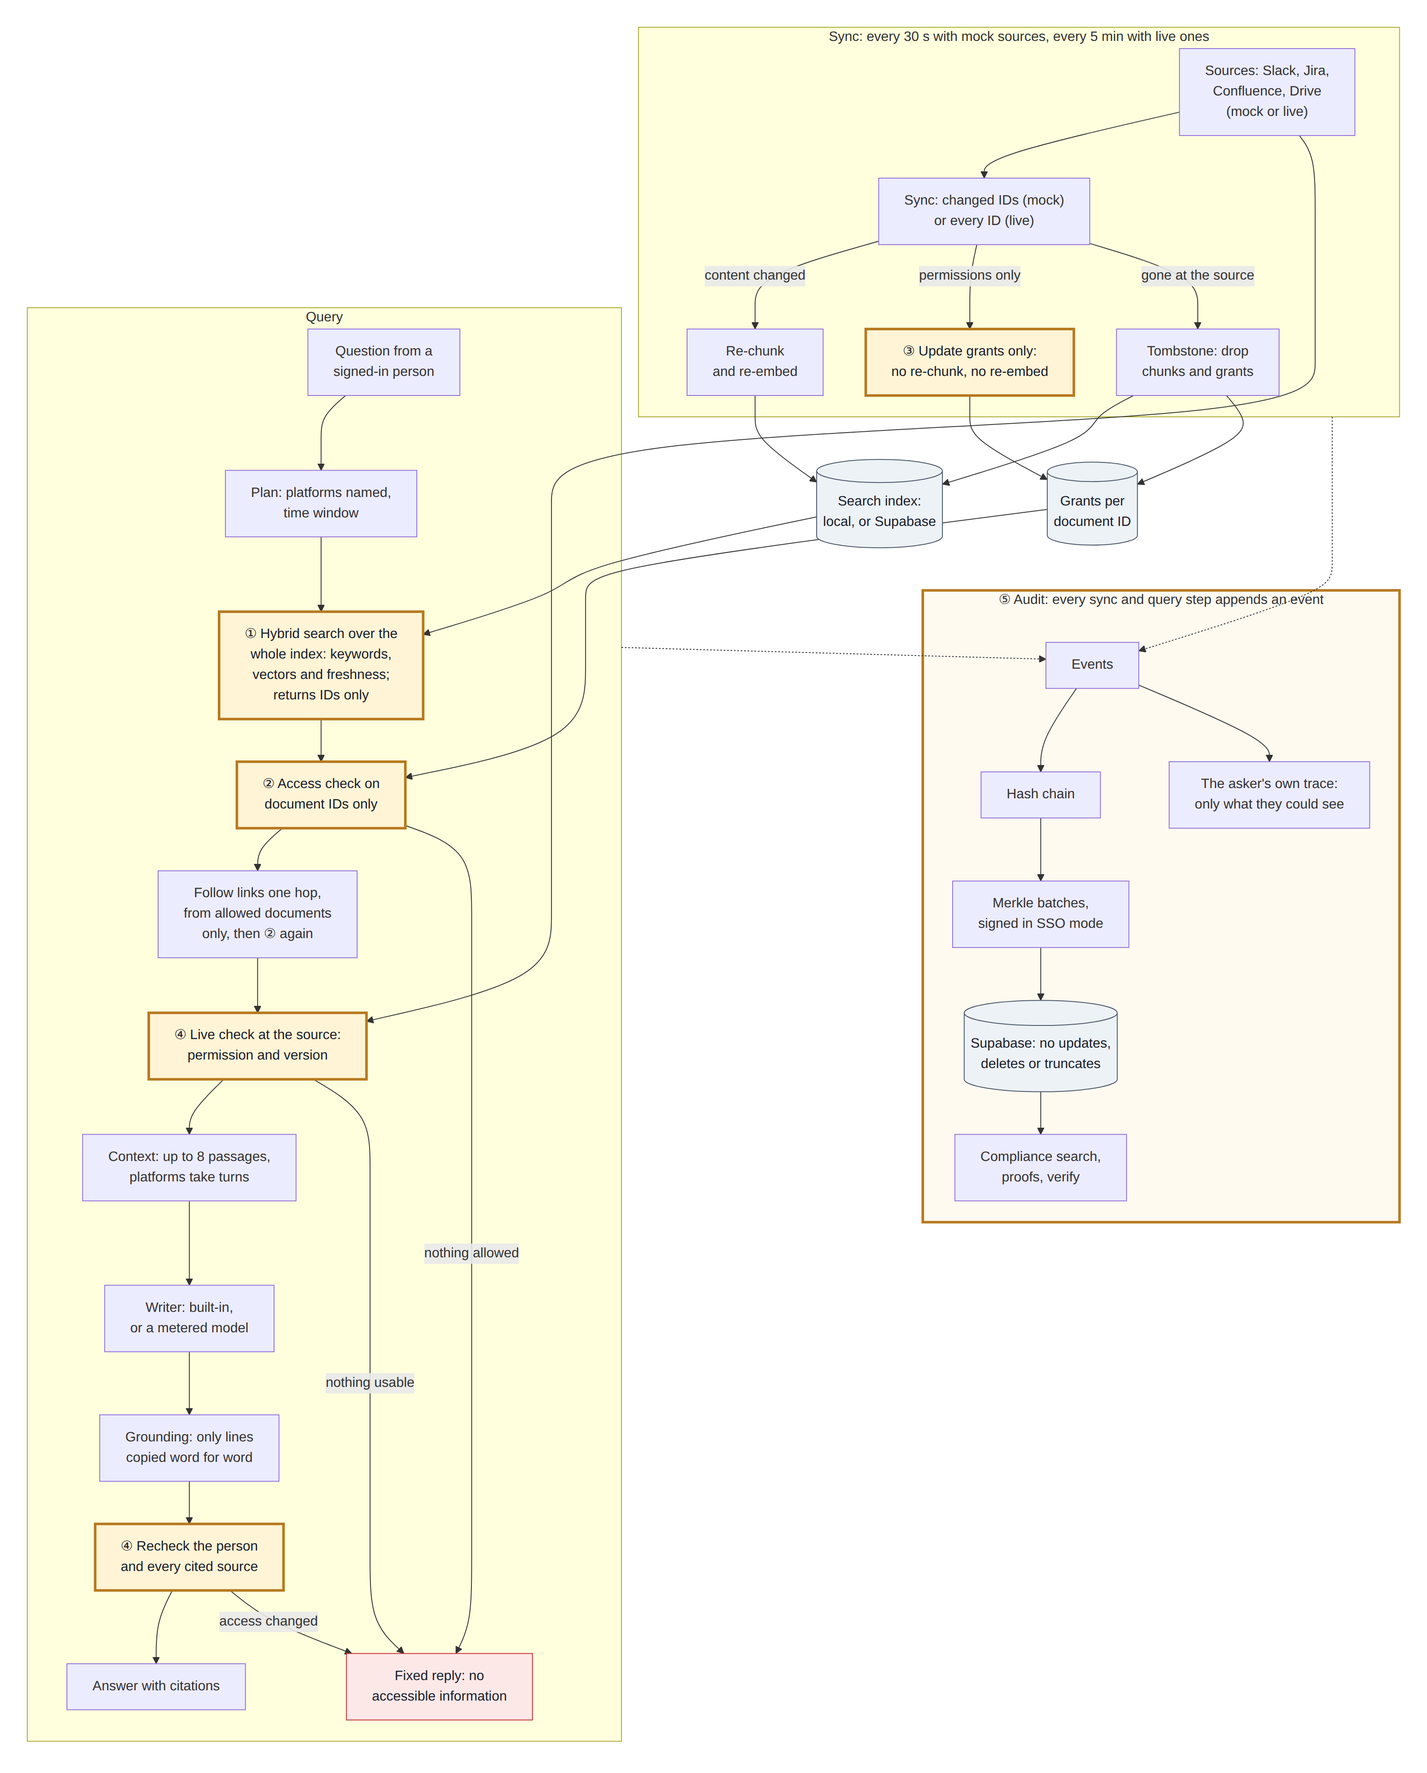
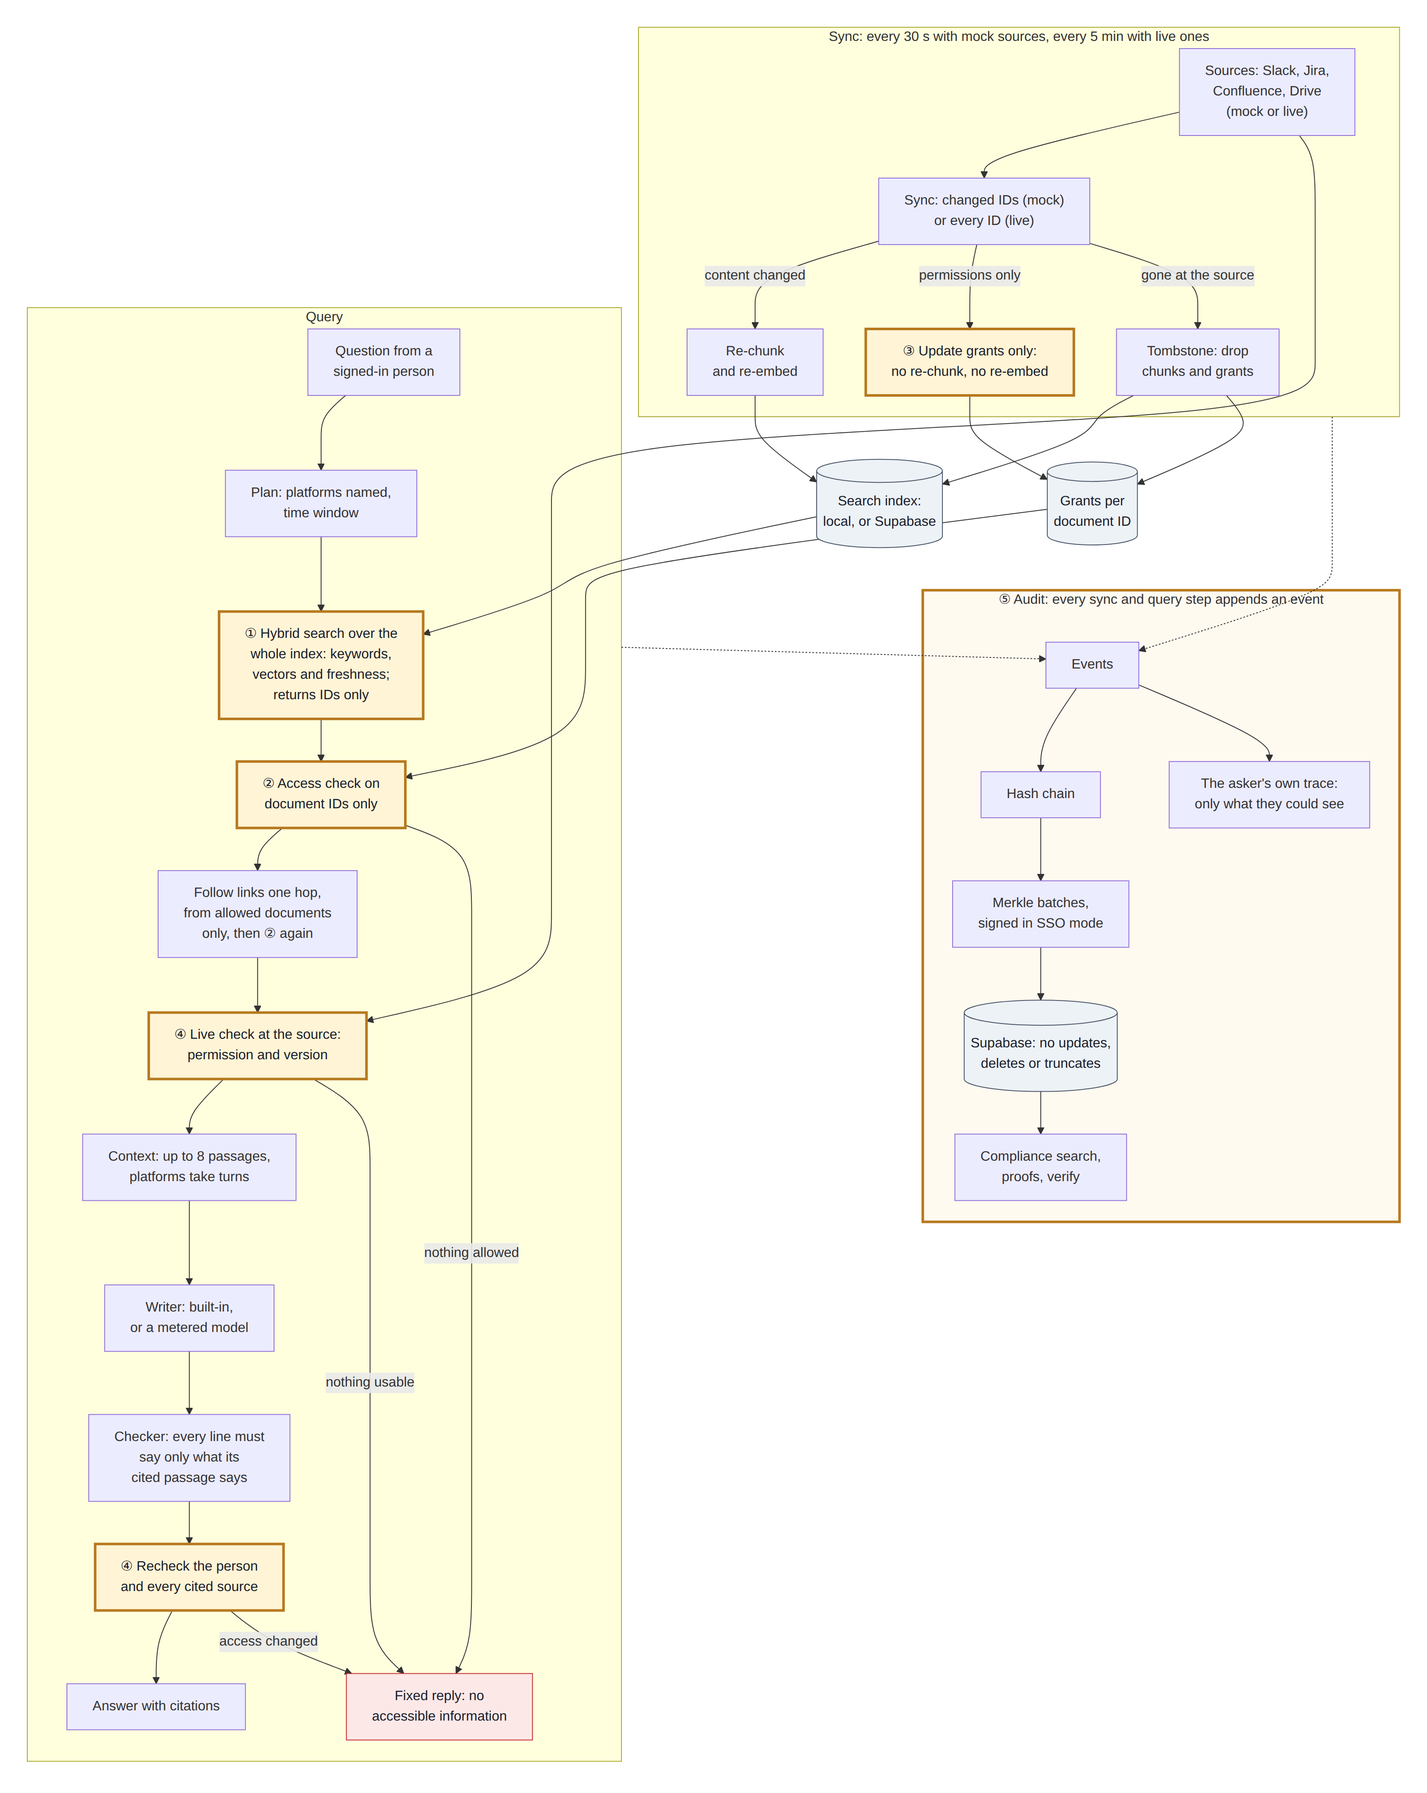
docs: the answer checker; log decisions D62-D65
- README: the model section describes the checker, what it keeps and leaves
  out, how it was measured and its known gaps, and pnpm llm:check. The
  workspace section mentions the reworded tag and the left-out note.
- docs/architecture.md: the LLM-safety row, the query path and the writers
  section describe the checker. The pipeline diagram's grounding step becomes
  "Checker: every line must say only what its cited passage says", re-rendered.
- decisions.md: D62 (rules, not a second model), D63 (a count and a reason for
  the asker; the text for the audit), D64 (light rewording), D65 (a branch on
  top of the UI fixes), with the measured results and implementation notes.

diff --git a/docs/architecture.md b/docs/architecture.md
@@ -25,7 +25,7 @@ covers hosting and sign-in, and [worked examples](worked-examples.md) shows each
 | **Permission-aware retrieval** | Search returns IDs only, and access is decided on document IDs before any text is read (① ②). Each document is checked again at its source before its text enters the context (④). When nothing is allowed, every asker gets the same fixed reply. | [Brain tests](../apps/api/src/brain.test.ts): "never sends denied titles or private channel names to the LLM", "applies a live permission revocation on the next query". [Scenario 3](worked-examples.md#scenario-3-no-hint-that-restricted-content-exists). |
 | **Context across platforms** | The [query plan](../apps/api/src/query-plan.ts) reads the platforms and time window a question names. Links the sources make themselves (Jira issue links and attachments, Confluence page links, and issue keys and links in text) bring in a ticket's linked thread, page and files, one hop from the documents the asker may open. Platforms with a clearly relevant match take turns, Jira passages state the issue status, and the context holds up to 8 passages. | [Scenario tests](../apps/api/src/scenarios.test.ts): scenario 1, and "Context assembly: linked items", such as "never follows links from a document the asker may not open". [Query plan tests](../apps/api/src/query-plan.test.ts). [Scenario 1](worked-examples.md#scenario-1-one-question-across-platforms). |
 | **Audit trail: tamper-evident, complete, queryable** | Every step of sync and of each question appends an event to a hash chain (⑤). Merkle batches are sealed on every sync and signed in SSO mode, and Supabase rejects updates and deletes. Compliance search reads plain-English questions and answers "who retrieved this document". | Brain tests: "produces a verifiable Merkle inclusion proof". [Audit tests](../packages/audit/src/index.test.ts). [Scenario 5](worked-examples.md#scenario-5-the-audit-trail-answers-compliance-questions), including the tamper checks. |
-| **LLM safety** | A writer sees only the question and passages the asker may see, freshly checked. Every answer line must be copied word for word from a passage it cites. A model runs behind a usage meter, and the built-in writer takes over when it can't answer. | Brain tests: "removes uncited output" and the "When the language model can't answer" suite. [Usage meter tests](../apps/api/src/llm-budget.test.ts). |
+| **LLM safety** | A writer sees only the question and passages the asker may see, freshly checked. The answer checker keeps a line only when a passage it cites backs it: copied word for word, or reworded with the same facts, status, negation and hedging. Lines it leaves out are counted for the asker and recorded, with their text, for compliance. A model runs behind a usage meter, and the built-in writer takes over when it can't answer. | [Checker tests](../packages/retrieval/src/grounding.test.ts): the rule set, one-fact changes to every demo sentence, a held-out set and the known gaps. Brain tests: "removes uncited output", "The answer checker" and the "When the language model can't answer" suite. [Usage meter tests](../apps/api/src/llm-budget.test.ts). |
 
 Freshness, the brief's scenario 2, comes from the same live check: a document whose version changed at the source is
 refreshed before it is used ([scenario 2](worked-examples.md#scenario-2-fresh-content)).
@@ -62,7 +62,7 @@ flowchart TB
     Links --> Live["④ Live check at the source:<br/>permission and version"]
     Live --> Context["Context: up to 8 passages,<br/>platforms take turns"]
     Context --> Writer["Writer: built-in,<br/>or a metered model"]
-    Writer --> Ground["Grounding: only lines<br/>copied word for word"]
+    Writer --> Ground["Checker: every line must<br/>say only what its<br/>cited passage says"]
     Ground --> Recheck["④ Recheck the person<br/>and every cited source"]
     Recheck --> Answer["Answer with citations"]
     Check -->|"nothing allowed"| Fixed["Fixed reply: no<br/>accessible information"]
@@ -134,8 +134,9 @@ flowchart TB
    "previous"). Platforms with a clearly relevant match take turns.
 6. **Live check:** each passage's document is checked at the source once before its text is used, up to 8 passages.
    A linked item counts only while the item it came through passes too.
-7. **Write and ground:** the writer answers from those passages, and only lines copied word for word, each with its
-   citation, are kept.
+7. **Write and check:** the writer answers from those passages. A line is kept only when a passage it cites backs it,
+   copied word for word or reworded with the same facts, status, negation and hedging. The asker learns how many lines
+   were left out and why; the audit keeps their text.
 8. **Recheck:** the person and every cited document are checked again. Any change returns the fixed reply.
 9. **Answer:** citations carry the title, link, version, edit time and index time, and the item a link came through.
    Answers also say which platforms and dates were searched, and which project they kept to.
@@ -183,11 +184,13 @@ person may also open.
     allowance, room held for calls still running, and a 60-second timeout.
   - A model receives the question and the authorized passages with their citation IDs, and nothing else.
   - Its instructions ask it to answer every part of the question from every passage that helps, and to keep status
-    labels and steps. Each sentence must be copied exactly, with its citation; a line that isn't is dropped.
-    Lookalike characters (a non-breaking hyphen, curly quotes, special spaces) don't count as differences, and the
-    answer shows the source's own text.
-- **Fallbacks:** the built-in writer answers when the model is over a limit, rate limited or failing, or when none of
-  its lines are copied word for word. The audit records `llm_fallback` with the reason. See decisions D27 to D31, D54
+    labels and steps. It may copy sentences or reword them lightly, keeping every fact, with one citation-marked
+    sentence per line (D64).
+  - [`grounding.ts`](../packages/retrieval/src/grounding.ts) checks each line against the passage it cites and keeps
+    only what that passage backs (D62). Lookalike characters (a non-breaking hyphen, curly quotes, special spaces)
+    don't count as differences, and a copied line shows the source's own text.
+- **Fallbacks:** the built-in writer answers when the model is over a limit, rate limited or failing, or when the
+  checker keeps none of its lines. The audit records `llm_fallback` with the reason. See decisions D27 to D31, D54
   and D55.
 
 ## Audit

diff --git a/decisions.md b/decisions.md
@@ -902,6 +902,90 @@ Each entry records the options that were considered, what was chosen, and the tr
 - **Screenshots:** the seven worked-example screenshots and the two README workspace screenshots were re-taken. Answers
   now show chips, and demo documents no longer show a link.
 
+## 2026-10-04 — The answer checker
+
+- **Input:**
+  - **The brief:** "Mitigate hallucination and the model 'filling in' content it wasn't given."
+  - **The MVP must-haves:** "an output checker for hallucination".
+  - **The 2 Oct review:** the old check kept only lines copied word for word. Faithful rewording was lost, the
+    model's instructions had to forbid it, and a removed line left no trace for the asker or the audit.
+- **How decided:** planned with its validation tests, then chosen explicitly in a planning session.
+
+### D62 — Rules, not a second model, judge a reworded line
+- **Options:**
+  - **Rules:** every clause must be backed by one sentence of a passage the line cites.
+  - **Rules plus a second model call:** a model judges each line the rules pass.
+- **Chosen:** rules only.
+  - **What a second model call would cost:** several seconds on answers that already take about 15, the free
+    allowance used twice, and no verdict a test can pin down.
+  - **What the rules give:** they are explainable and tested line by line, and each removal says what was wrong.
+- **What a kept line must keep:** the numbers, next to the same words; the names, keys, dates and quantities; and the
+  same status, order (before or after), comparison, negation and hedging. It may add no other word that carries
+  meaning. Word forms and a short list of synonyms count as the same word.
+- **Measured** (4 Oct, on the 26 demo passages):
+  - **The rule set:** 54 lines, all right. The word lists and limits were set against these.
+  - **Generated changes:** every sentence of every passage is kept as written, and each of 58 one-fact changes
+    (number, key, name, negation, status, before or after) is left out.
+  - **A held-out set:** 32 lines written before any tuning. Of 15 lines to remove, the checker keeps one (B15, two
+    steps in the opposite order). Of 17 lines to keep, it removes three:
+    - B5: "final wave" for "wave three";
+    - B16: "every morning" for "each morning";
+    - B23: "leave … out" for "do not include".
+  - **One more line, B22,** found a hole in the old word-for-word rule: a copied part of a sentence could drop the
+    "not" in front of it ("Include this channel" from "Do not include this channel"). That was fixed, so B22 no longer
+    counts as unseen.
+- **Known gaps:** each is a failing test (`it.fails`) that turns red once fixed.
+  - who did what, swapped within one sentence;
+  - cause and effect turned around;
+  - a requirement read as done ("Complete SEC-44 …" becoming "SEC-44 is complete");
+  - two steps in the opposite order;
+  - a faithful line that uses a word the passage doesn't (the cost of strictness).
+
+### D63 — The asker sees a count and a reason; the audit keeps the text
+- **Options:** a count and a reason; the removed text too, struck through; or nothing.
+- **Chosen:** a count and a reason, such as "2 lines left out: they had a name, number or date the source doesn't".
+  The text, the reason and what was wrong go into the audit's `answer_returned` entry for compliance.
+- **Why:** a removed line is model text that no source backs, so it never appears in an answer, even marked as
+  removed.
+- **After a fallback (D29):** the model's removed lines go to the audit only. Telling the asker about them would say
+  which writer answered, which D57 left for later.
+
+### D64 — The model may reword lightly
+- **Options:** keep copy-exactly, or allow light rewording now that it's checked.
+- **Chosen:** light rewording. The model may shorten a sentence or join two from one passage, keeping every name,
+  number, date, issue key and status word exactly, and adding nothing.
+- **Trade-off:** more lines may be left out, and so more answers may fall back. `pnpm llm:check` measures this on the
+  real model, and the instruction can be reverted on its own.
+
+### D65 — A branch of its own, on top of the UI fixes
+- **Chosen:** `feat/answer-checker`, stacked on `fix/workspace-ui`. Both are pushed, and the UI one is merged first.
+
+### Implementation details (the answer checker)
+- **Where:** `checkAnswer` in `packages/retrieval/src/grounding.ts`. `groundedOutput` now wraps it, so every writer's
+  reply goes through it, the built-in writer's included (all its lines are copied).
+- **Each line:**
+  1. Every citation marker must name a passage the writer was given.
+  2. Each sentence is checked on its own, and a marker that backs nothing is dropped from the line.
+  3. A sentence copied from a cited passage is kept as copied, if it means what its whole sentence means.
+  4. Otherwise the sentence is split into clauses at commas, semicolons, colons and joining words. Each clause must be
+     backed by one sentence of a cited passage.
+- **Issue status:** a clause that only gives an issue's status ("DB-12 is blocked") must match the label the brain
+  writes into that issue's text, or a status word next to the key.
+- **The answer:** `QueryAnswer.check` gives each line its kind and the source sentences that back it, and only the
+  reasons for what was left out. A no-result answer carries no check, so scenario 3's reply is unchanged.
+- **The workspace:**
+  - a reworded line carries a "reworded" tag, and its chip highlights the sentences that back it;
+  - a note under the answer and the asker's trace give the count and the reason;
+  - the audit console's line counts reworded and left-out lines.
+- **Tests:** written first and seen failing, in `grounding.test.ts`, `brain.test.ts`, `llm-check.test.ts` and the
+  web node checks.
+- **Checked in the browser** with a stand-in model that mixes copied, reworded and invented lines:
+  - the tag, the highlight and the note;
+  - David's trace, without the removed text;
+  - Nur's raw entry, with it;
+  - no new axe violations.
+- **`pnpm llm:check`:** prints the verdict on every line of a real model's replies, for the team to label.
+
 ---
 
 ## Deferred (not decided yet)

diff --git a/README.md b/README.md
@@ -90,6 +90,8 @@ suggestions.
   - A chip or a source opens the document in the workspace, with the quoted lines highlighted.
   - The demo's documents live at placeholder addresses, so they say "Demo document" instead of linking out. Real
     sources keep their "Open in Slack ↗" (or Jira, Confluence, Drive) link.
+  - A line in the writer's own words is tagged "reworded", and its source highlights the sentence behind it. A note
+    under the answer says how many lines the checker left out, and why.
 - **While an answer is on its way:** a spinner and a seconds counter show. The spinner holds still when the system
   asks for reduced motion.
 - **Compliance:**
@@ -119,7 +121,7 @@ suggestions.
 
 ## Language model (optional, free only)
 
-Without a model, the built-in writer answers: it quotes the most relevant source in full and the best sentence of the next three. A model can only choose and order sentences better. Every answer, from either, keeps only lines copied word for word from the sources the asker may see, each with its citation.
+Without a model, the built-in writer answers: it quotes the most relevant source in full and the best sentence of the next three. A model can write more naturally, and may reword lightly. Every answer, from either, goes through the answer checker: each line must say only what a source it cites says (below).
 
 The project pays for no model use (`decisions.md`, D27, D28 and D55):
 
@@ -132,15 +134,31 @@ The project pays for no model use (`decisions.md`, D27, D28 and D55):
     presets as tested options. They only start with a usage file and token budgets below the free tokens, and Tencent
     bills only if post-paid billing is turned on.
 - **Its instructions** ([`llm.ts`](apps/api/src/llm.ts)) tell the model to:
-  - copy sentences exactly, one per line, each with its citation;
+  - copy sentences where it can, or shorten one or join two from one passage, keeping every name, number, date, issue
+    key and status word and adding nothing, one sentence per line, each with its citation;
   - answer every part of the question, using every passage that helps and leaving out unrelated ones;
   - keep status labels such as "DB-15 (blocked):" and every step of a procedure;
   - put the direct answer first, in at most eight sentences.
 
-  Any line that isn't copied exactly is dropped afterwards, so the model can only choose and order sentences.
-  Lookalike characters, such as a non-breaking hyphen, curly quotes or special spaces, don't count as differences,
-  and the answer shows the source's own text.
-- **Usage meter:** `LLM_USAGE_FILE` keeps the token and answer counts across restarts. At `LLM_TOKEN_BUDGET` or `LLM_DAILY_ANSWERS`, the built-in writer answers instead. If the model is rate limited, failing or takes over 60 seconds, or no line of its reply is copied word for word, it does the same, and the audit records an `llm_fallback` event with the reason. If the usage file can't be read or written, no model is called.
+- **The answer checker** ([`grounding.ts`](packages/retrieval/src/grounding.ts), D62–D64) reads every line of the
+  reply against the passages the writer was given:
+  - **Copied:** a line found word for word in a passage it cites is kept, in the source's own text. Lookalike
+    characters, such as a non-breaking hyphen, curly quotes or special spaces, don't count as differences. A copied
+    part of a sentence must still mean what the whole does, so "Include this channel" from "Do not include this
+    channel" is left out.
+  - **Reworded:** a line is kept only when each of its clauses is backed by one sentence of a passage it cites. The
+    numbers must match and sit next to the same words, and so must the names, keys, dates and quantities. Status,
+    order, comparison, negation and hedging must agree, and no other word that carries meaning may be added.
+  - **Left out:** anything else. The asker sees how many lines and why; the text goes to the audit (D63).
+  - **Measured on the demo passages:**
+    - 54 rule lines, all right;
+    - 58 generated one-fact changes, all left out;
+    - a held-out set of 32 lines written before tuning: one hallucination kept, three faithful lines left out (D62).
+  - **Known gaps:** who did what within one sentence, cause and effect reversed, a requirement read as done, and two
+    steps in the opposite order.
+  - **`pnpm llm:check`** asks the usage questions through the configured model and prints the verdict on every line,
+    for a person to judge.
+- **Usage meter:** `LLM_USAGE_FILE` keeps the token and answer counts across restarts. At `LLM_TOKEN_BUDGET` or `LLM_DAILY_ANSWERS`, the built-in writer answers instead. If the model is rate limited, failing or takes over 60 seconds, or the checker keeps no line of its reply, it does the same, and the audit records an `llm_fallback` event with the reason. If the usage file can't be read or written, no model is called.
   - Calls still running count against the limits, so questions asked at the same moment can't all get past them.
   - A call that gives no usable answer still counts what the provider may bill. A refused request counts nothing.
 - **One Groq account:** its free plan limits requests and tokens per minute and per day, and every key in the account
